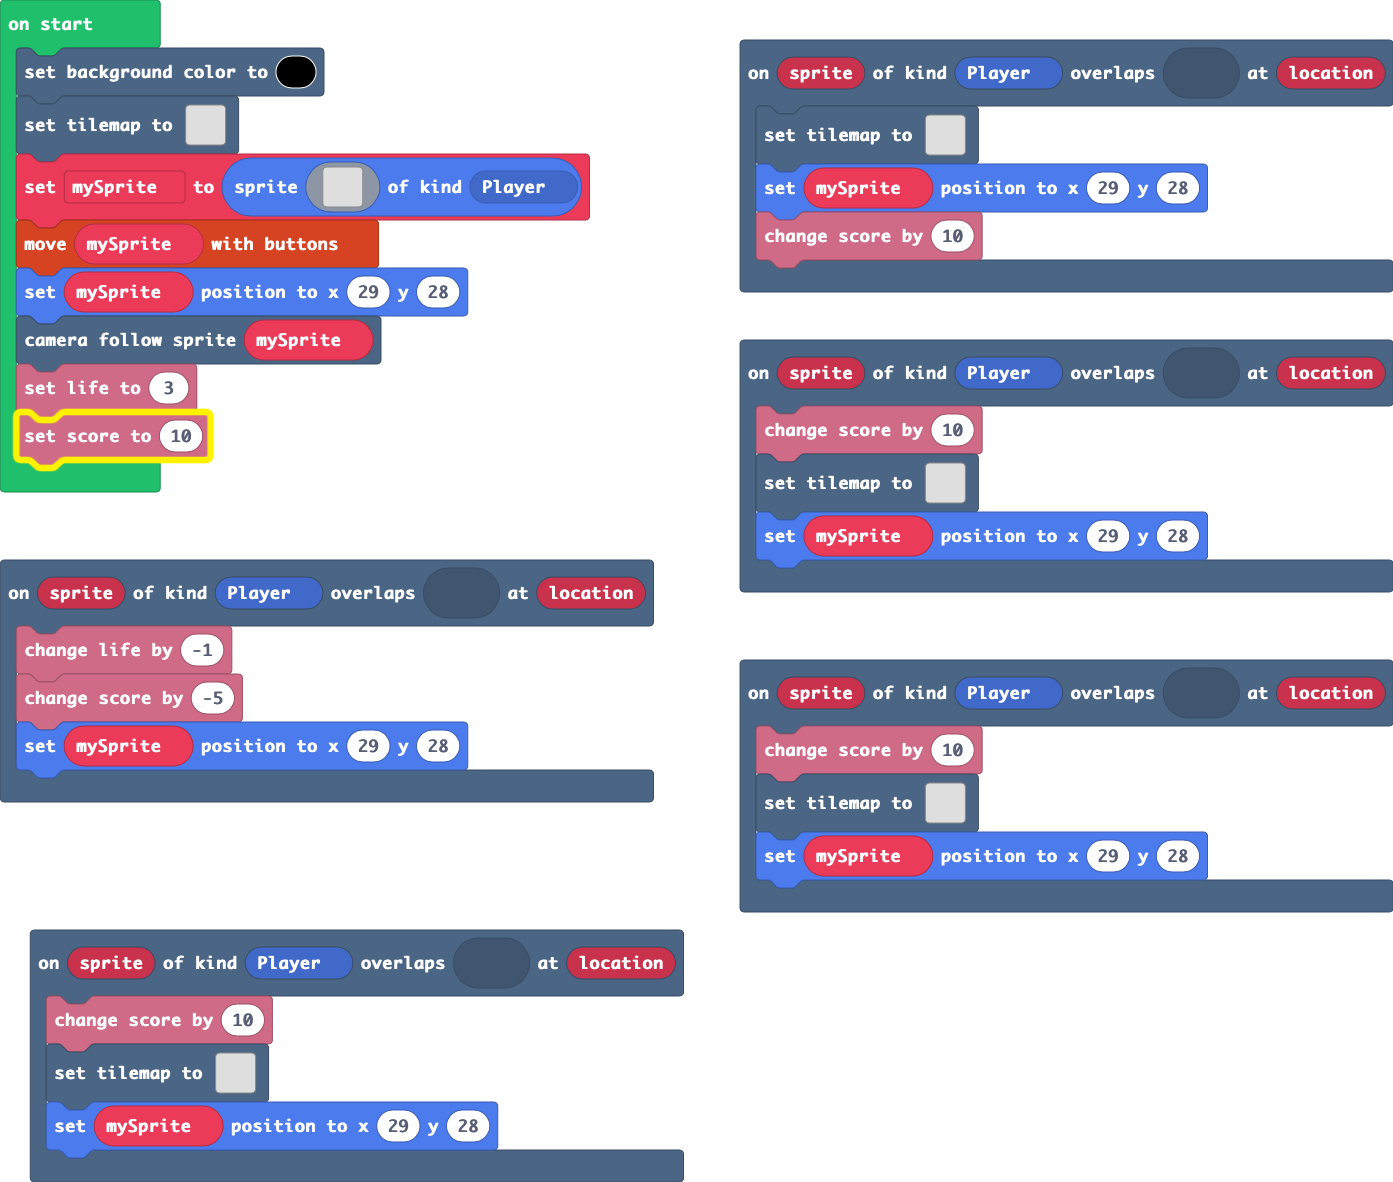
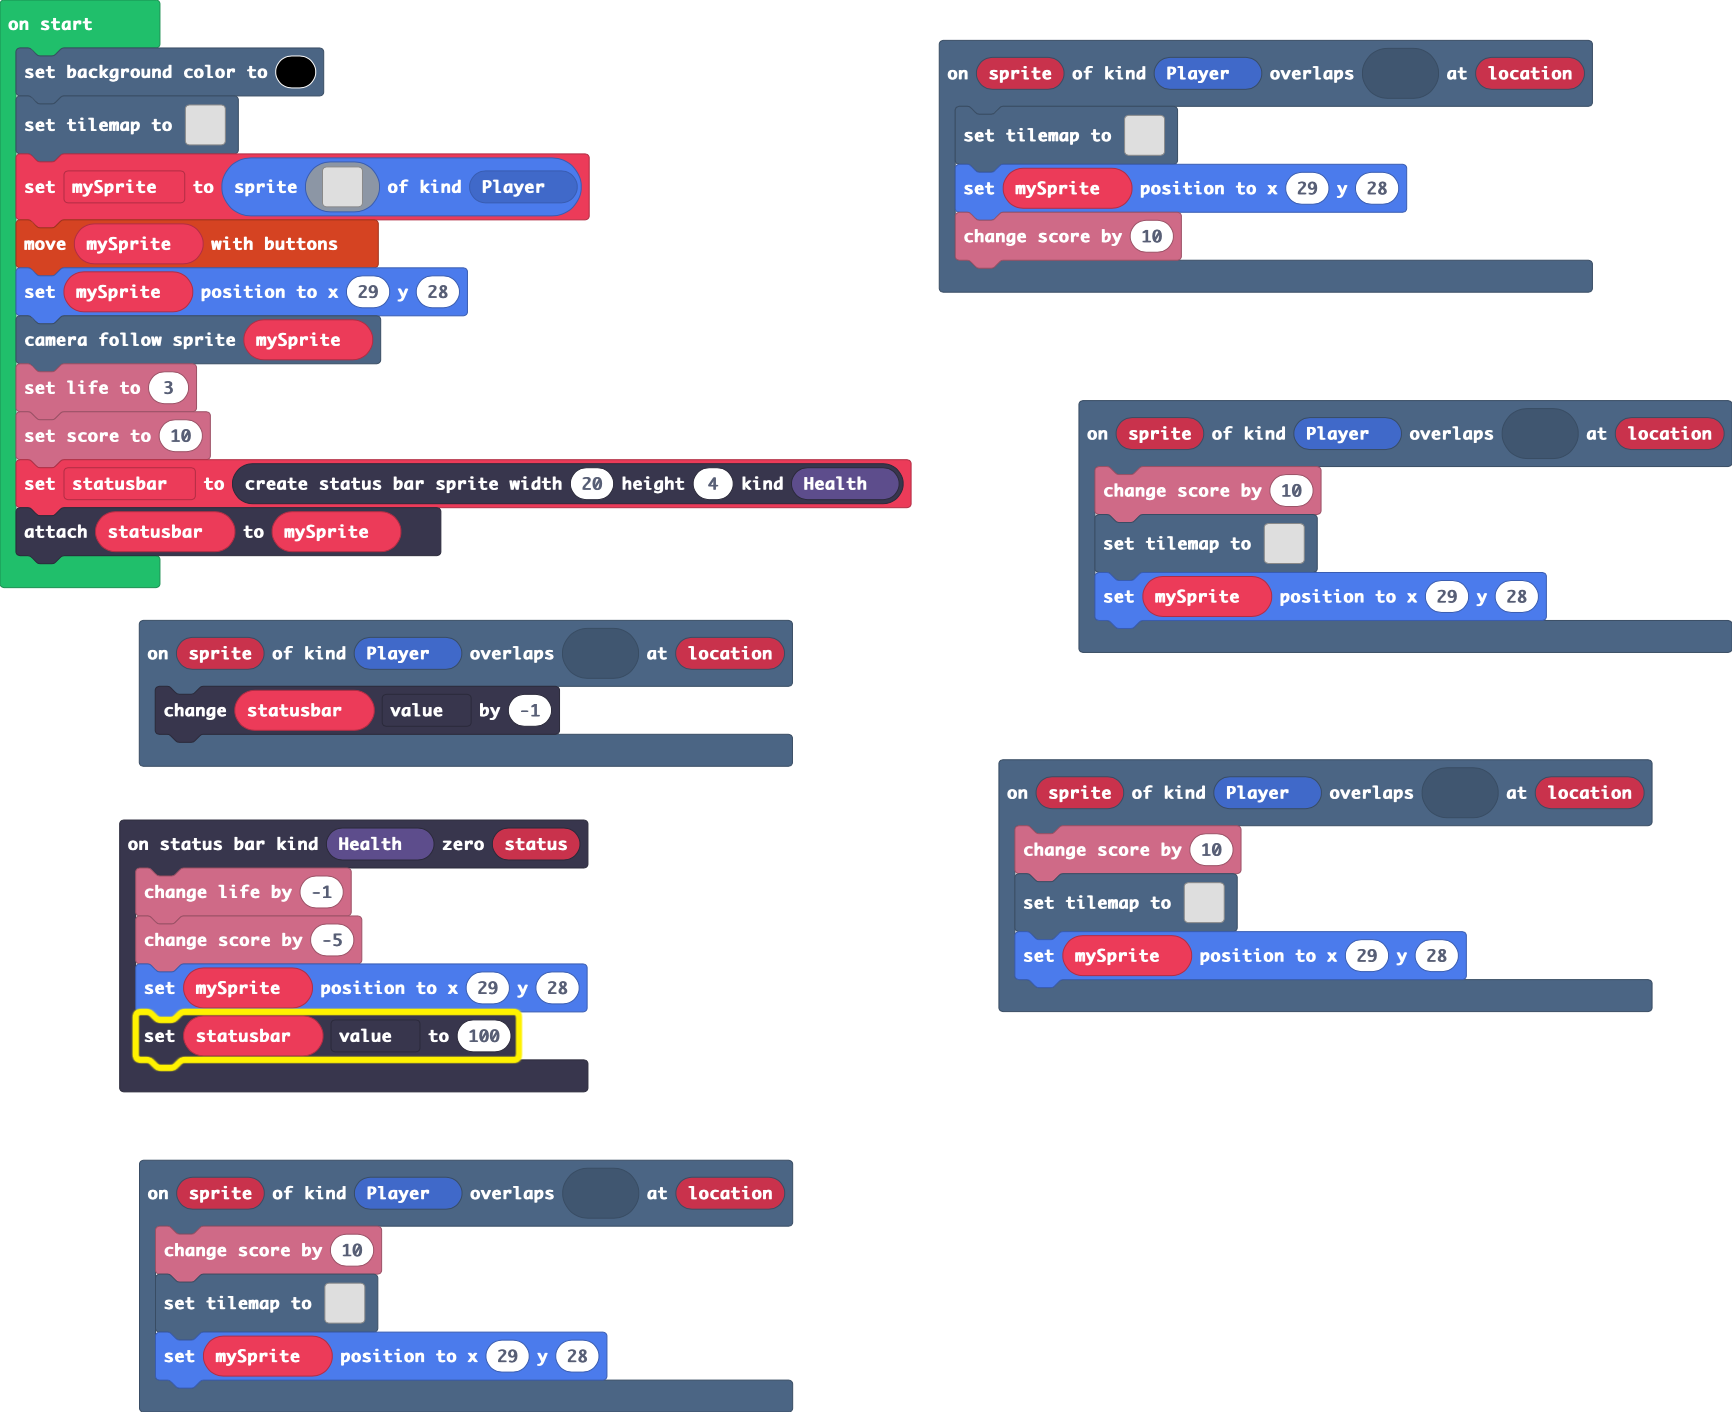
added status bar health

diff --git a/tilemap.g.ts b/tilemap.g.ts
@@ -2,6 +2,8 @@
 namespace myTiles {
     //% fixedInstance jres blockIdentity=images._tile
     export const transparency16 = image.ofBuffer(hex``);
+    //% fixedInstance jres blockIdentity=images._tile
+    export const tile1 = image.ofBuffer(hex``);
 
     helpers._registerFactory("tilemap", function(name: string) {
         switch(helpers.stringTrim(name)) {
@@ -195,6 +197,25 @@ namespace myTiles {
 2 2 . . . . . . . . . . . . . 2 
 2 2 2 2 2 . . . . . . 2 2 2 2 2 
 `, [myTiles.transparency16,sprites.dungeon.hazardLava1,sprites.dungeon.collectibleInsignia,sprites.dungeon.chestOpen], TileScale.Sixteen);
+            case "level8":
+            case "level8":return tiles.createTilemap(hex`1000100000000000000000000000000000000000000000000000000000000000000000000000000000000000000000000000000000000000000000000000000000000000000000000000000000000000000000000000000000000000000000000000000000000000000000000000000000000000000000000000000000000000000000000000000000000000000000000000000000000000000000000000000000000000000000000000000000000000000000000000000000000000000000000000000000000000000000000000000000000000000000000000000000000000000000000000000000000000000000000000000000000000000000000000000000000000`, img`
+. . . . . . . . . . . . . . . . 
+. . . . . . . . . . . . . . . . 
+. . . . . . . . . . . . . . . . 
+. . . . . . . . . . . . . . . . 
+. . . . . . . . . . . . . . . . 
+. . . . . . . . . . . . . . . . 
+. . . . . . . . . . . . . . . . 
+. . . . . . . . . . . . . . . . 
+. . . . . . . . . . . . . . . . 
+. . . . . . . . . . . . . . . . 
+. . . . . . . . . . . . . . . . 
+. . . . . . . . . . . . . . . . 
+. . . . . . . . . . . . . . . . 
+. . . . . . . . . . . . . . . . 
+. . . . . . . . . . . . . . . . 
+. . . . . . . . . . . . . . . . 
+`, [myTiles.transparency16,myTiles.tile1], TileScale.Sixteen);
         }
         return null;
     })
@@ -202,6 +223,8 @@ namespace myTiles {
     helpers._registerFactory("tile", function(name: string) {
         switch(helpers.stringTrim(name)) {
             case "transparency16":return transparency16;
+            case "tile":
+            case "tile1":return tile1;
         }
         return null;
     })

diff --git a/main.ts b/main.ts
@@ -13,16 +13,21 @@ scene.onOverlapTile(SpriteKind.Player, sprites.dungeon.chestClosed, function (sp
     tiles.setTilemap(tilemap`level6`)
     mySprite.setPosition(29, 28)
 })
-scene.onOverlapTile(SpriteKind.Player, sprites.dungeon.hazardLava1, function (sprite, location) {
+statusbars.onZero(StatusBarKind.Health, function (status) {
     info.changeLifeBy(-1)
     info.changeScoreBy(-5)
     mySprite.setPosition(29, 28)
+    statusbar.value = 100
+})
+scene.onOverlapTile(SpriteKind.Player, sprites.dungeon.hazardLava1, function (sprite, location) {
+    statusbar.value += -1
 })
 scene.onOverlapTile(SpriteKind.Player, sprites.castle.saplingOak, function (sprite, location) {
     tiles.setTilemap(tilemap`level1`)
     mySprite.setPosition(29, 28)
     info.changeScoreBy(10)
 })
+let statusbar: StatusBarSprite = null
 let mySprite: Sprite = null
 scene.setBackgroundColor(15)
 tiles.setTilemap(tilemap`level2`)
@@ -57,3 +62,5 @@ mySprite.setPosition(29, 28)
 scene.cameraFollowSprite(mySprite)
 info.setLife(3)
 info.setScore(10)
+statusbar = statusbars.create(20, 4, StatusBarKind.Health)
+statusbar.attachToSprite(mySprite)
